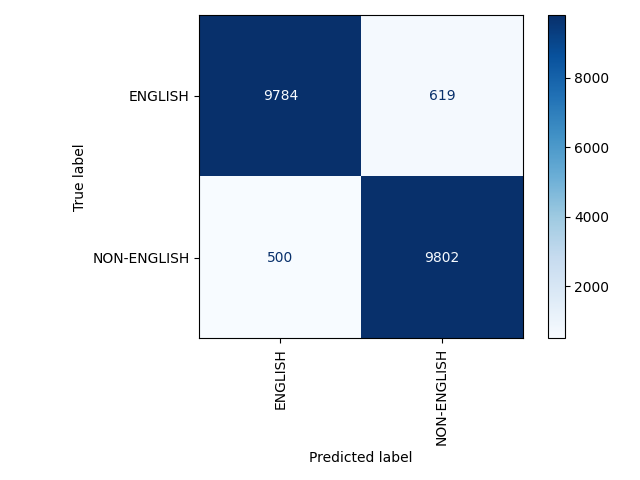
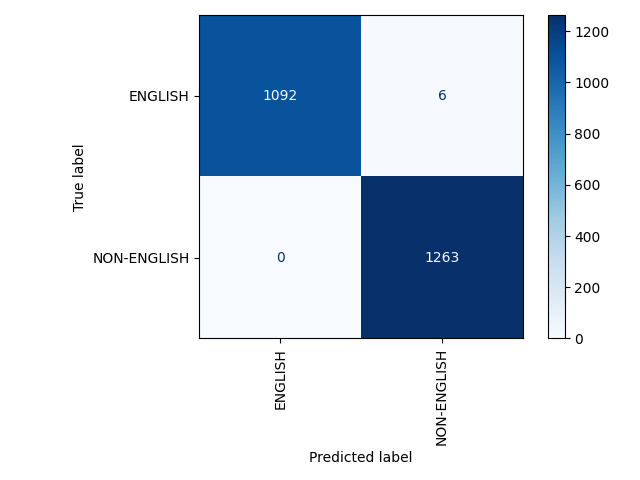
finished rewriting the code, added F1 Score and Trasformed each sentence vector into occurence vector

diff --git a/newAssignment1.py b/newAssignment1.py
@@ -1,16 +1,20 @@
 import itertools
 import random
 
-from nltk import download, WordNetLemmatizer, FreqDist
+from matplotlib import pyplot as plt
+from nltk import WordNetLemmatizer, FreqDist, NaiveBayesClassifier
 from nltk.corpus import stopwords
 from nltk.stem.snowball import SnowballStemmer
 from nltk.tokenize import word_tokenize, sent_tokenize
+from sklearn.metrics import accuracy_score, precision_score, recall_score, ConfusionMatrixDisplay, f1_score
 
 random.seed(1)
-download('stopwords')
-download('punkt')
-download('wordnet')
-download('omw-1.4')
+
+
+# download('stopwords')
+# download('punkt')
+# download('wordnet')
+# download('omw-1.4')
 
 
 ################################################
@@ -63,9 +67,26 @@ finnish_token_vec = preprocess('finnish', finnish)
 french_token_vec = preprocess('french', french)
 non_english_token_vec = french_token_vec + finnish_token_vec
 
+
 ########################
 #   COMPUTE FEATURES   #
 ########################
+def create_features(token_vector: list[str], label: int):
+    """
+    Creates the dataset transforming each phrase into an occurrence dictionary based on the most frequent word,
+    then assigning to each dictionary a label
+    :param token_vector: a list containing tokenized sentences
+    :param label: the label to assign to each data point
+    :return: the dataset
+    """
+    def vec_to_feature(phrase):
+        return {f'contains({word})': (word in set(phrase)) for word in most_common}
+
+    label_vec = [label] * len(token_vector)
+    feature_vec = [vec_to_feature(p) for p in token_vector]
+    return list(zip(feature_vec, label_vec))
+
+
 # Flatten the token vectors
 flat_english1 = list(itertools.chain(*english1_token_vec))
 flat_english2 = list(itertools.chain(*english2_token_vec))
@@ -73,13 +94,49 @@ flat_finnish = list(itertools.chain(*finnish_token_vec))
 flat_french = list(itertools.chain(*french_token_vec))
 all_tokens = flat_finnish + flat_french + flat_english1 + flat_english2
 N = 2000
-
-def document_features(phrase):
-    return {f'contains({word})': (word in set(phrase)) for word in most_common}
-
+labels = {"ENGLISH": 0, "NON-ENGLISH": 1}
+# compute most common words
 freq_dist = FreqDist(all_tokens)
-most_common = map(lambda x: x[0], freq_dist.most_common(N))
+most_common = list(freq_dist)[:N]
+# compute the dataset
+english_dataset = create_features(english_token_vec, labels["ENGLISH"])
+non_english_dataset = create_features(non_english_token_vec, labels["NON-ENGLISH"])
 
-# TODO tranform each phrase into a dictionary of features
-# TODO do train and test
-# TODO compute metrics (add F1)
+################################################
+#                                              #
+#                   CLASSIFY                   #
+#                                              #
+################################################
+complete_dataset = english_dataset + non_english_dataset
+random.shuffle(complete_dataset)
+
+# Split Train and Test Set 70% Training and 30% for Test
+train_split = int(0.7 * len(complete_dataset))
+train_set, test_set = complete_dataset[:train_split], complete_dataset[train_split:]
+
+print("TRAINING")
+classifier = NaiveBayesClassifier.train(train_set)
+
+################################################
+#                                              #
+#                   METRICS                    #
+#                                              #
+################################################
+# Metrics: accuracy, precision, recall, f1
+print("TESTING")
+y_pred = [classifier.classify(feats) for (feats, label) in test_set]
+y_true = [label for (feats, label) in test_set]
+print("MODEL PERFORMANCE")
+print(f"ACCURACY: {accuracy_score(y_true, y_pred)}")
+print(f"PRECISION: {precision_score(y_true, y_pred)}")
+print(f"RECALL: {recall_score(y_true, y_pred)}")
+print(f"F1: {f1_score(y_true, y_pred)}")
+ConfusionMatrixDisplay.from_predictions(
+    y_true,
+    y_pred,
+    display_labels=list(labels.keys()),
+    xticks_rotation='vertical',
+    cmap='Blues'
+)
+plt.tight_layout()
+plt.savefig('img/confusion_matrix.png')

diff --git a/assignment1.py b/assignment1.py
@@ -28,7 +28,7 @@ english_stop_words = set(stopwords.words("english"))
 
 english1 = word_tokenize(english1, 'english')
 english2 = word_tokenize(english2, 'english')
-stemmer = PorterStemmer()
+
 # Join Datasets
 english = english1 + english2
 # remove stop words
@@ -39,7 +39,7 @@ list_english_no_punctuation = [word.lower() for word in filtered_list_english if
 e_stemmer = EnglishStemmer()
 list_english_stemmed = [{'token': e_stemmer.stem(word)} for word in list_english_no_punctuation]
 
-english_labels = [1] * len(list_english_stemmed)
+english_labels = [0] * len(list_english_stemmed)
 english_dataset = list(zip(list_english_stemmed, english_labels))
 
 ###############################
@@ -68,7 +68,7 @@ fr_stemmer = FrenchStemmer()
 list_french_stemmed = [{'token': fr_stemmer.stem(word)} for word in list_french_no_punctuation]
 
 non_english_tokens = list_french_stemmed + list_finnish_stemmed
-non_english_labels = [0] * len(non_english_tokens)
+non_english_labels = [1] * len(non_english_tokens)
 non_english_dataset = list(zip(non_english_tokens, non_english_labels))
 
 ################################################
